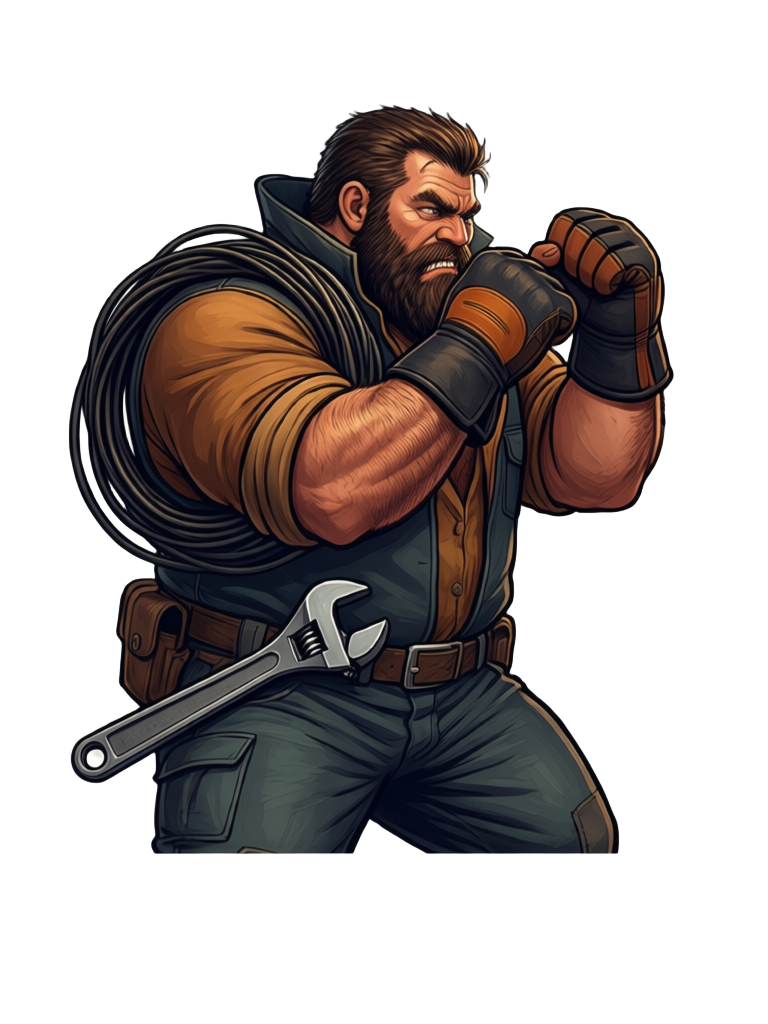
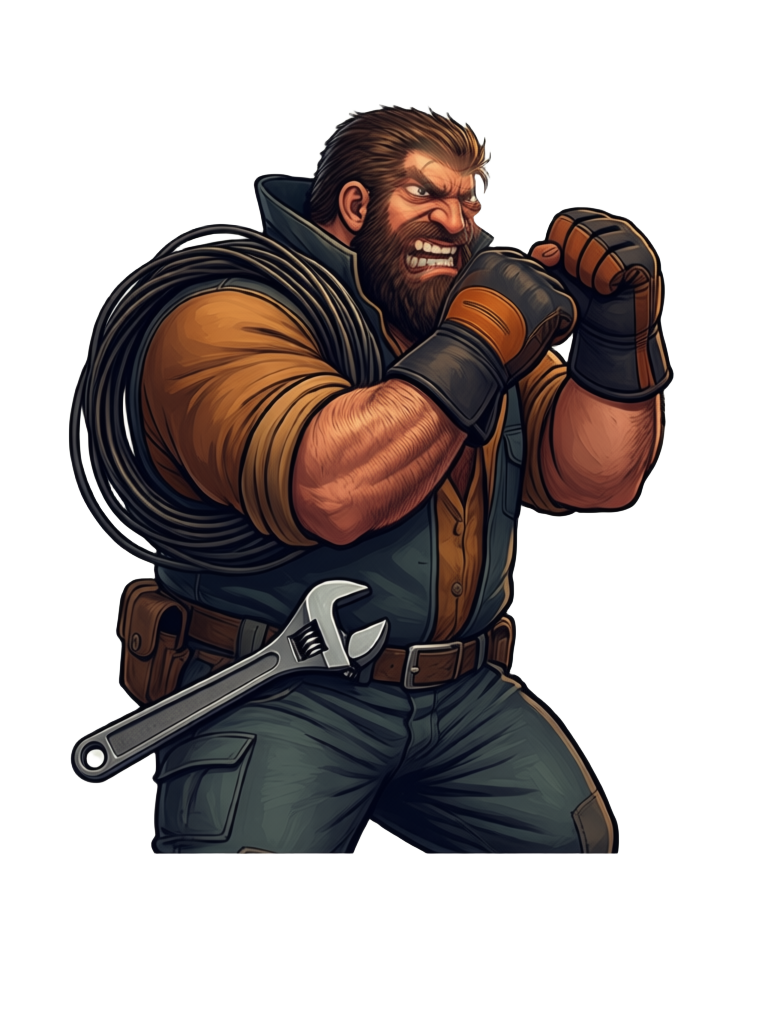
C2C 返工：c03 angry/hurt + c05 normal 三张遮灰残留修复（NOBLANK 重跑 + TIGHT 收紧 mask 只盖脸下半部，c05/c01 normal 恢复 c2c 前底图）；gen-c2c 加 TIGHT 选项防发际线灰雾渗漏；32 张全量复检 31/32（c01/normal 0.538 为参考图不匹配的既有状态，c01 未参与 c2c 且系 07:25 指定的表情参照）

Changed region(s): [[0.5, 0.125, 0.625, 0.2812]]

diff --git a/scripts/art/gen-c2c.py b/scripts/art/gen-c2c.py
@@ -58,15 +58,24 @@ def log(msg):
 
 def face_mask(box, W, H):
     """VLM bbox → 内缩椭圆 mask（羽化），float 0–1，1=重绘区。
-    内缩保证混接缝落在脸内部（皮肤上），不压头发/脸型轮廓。"""
+    内缩保证混接缝落在脸内部（皮肤上），不压头发/脸型轮廓。
+    TIGHT=1：椭圆下移到脸下半部（眉/眼/嘴），额头/发际线/太阳穴留在 mask 外
+    （那里逐位保留底图像素）——2026-11-02 c03/hurt 重做时模型重画的发际线
+    灰雾从羽化区渗漏，收紧后发际线不再被重绘。"""
     x, y, w, h = box["x"], box["y"], box["w"], box["h"]
-    cx, cy = x + w / 2, y + h * 0.55
-    rx, ry = w * 0.46, h * 0.50
+    if os.environ.get("TIGHT") == "1":
+        cx, cy = x + w / 2, y + h * 0.62
+        rx, ry = w * 0.40, h * 0.36
+        blur = max(3.0, w * 0.04)
+    else:
+        cx, cy = x + w / 2, y + h * 0.55
+        rx, ry = w * 0.46, h * 0.50
+        blur = max(4.0, w * 0.05)
     yy, xx = np.mgrid[0:H, 0:W].astype(float)
     d = ((xx - cx) / rx) ** 2 + ((yy - cy) / ry) ** 2
     arr = np.clip(1.0 - d, 0, 1)
     m = Image.fromarray((arr * 255).astype(np.uint8), "L")
-    m = m.filter(ImageFilter.GaussianBlur(max(4.0, w * 0.05)))   # 过渡带宽 ~ w*0.08
+    m = m.filter(ImageFilter.GaussianBlur(blur))   # 过渡带
     return np.array(m).astype(float) / 255.0
 
 
